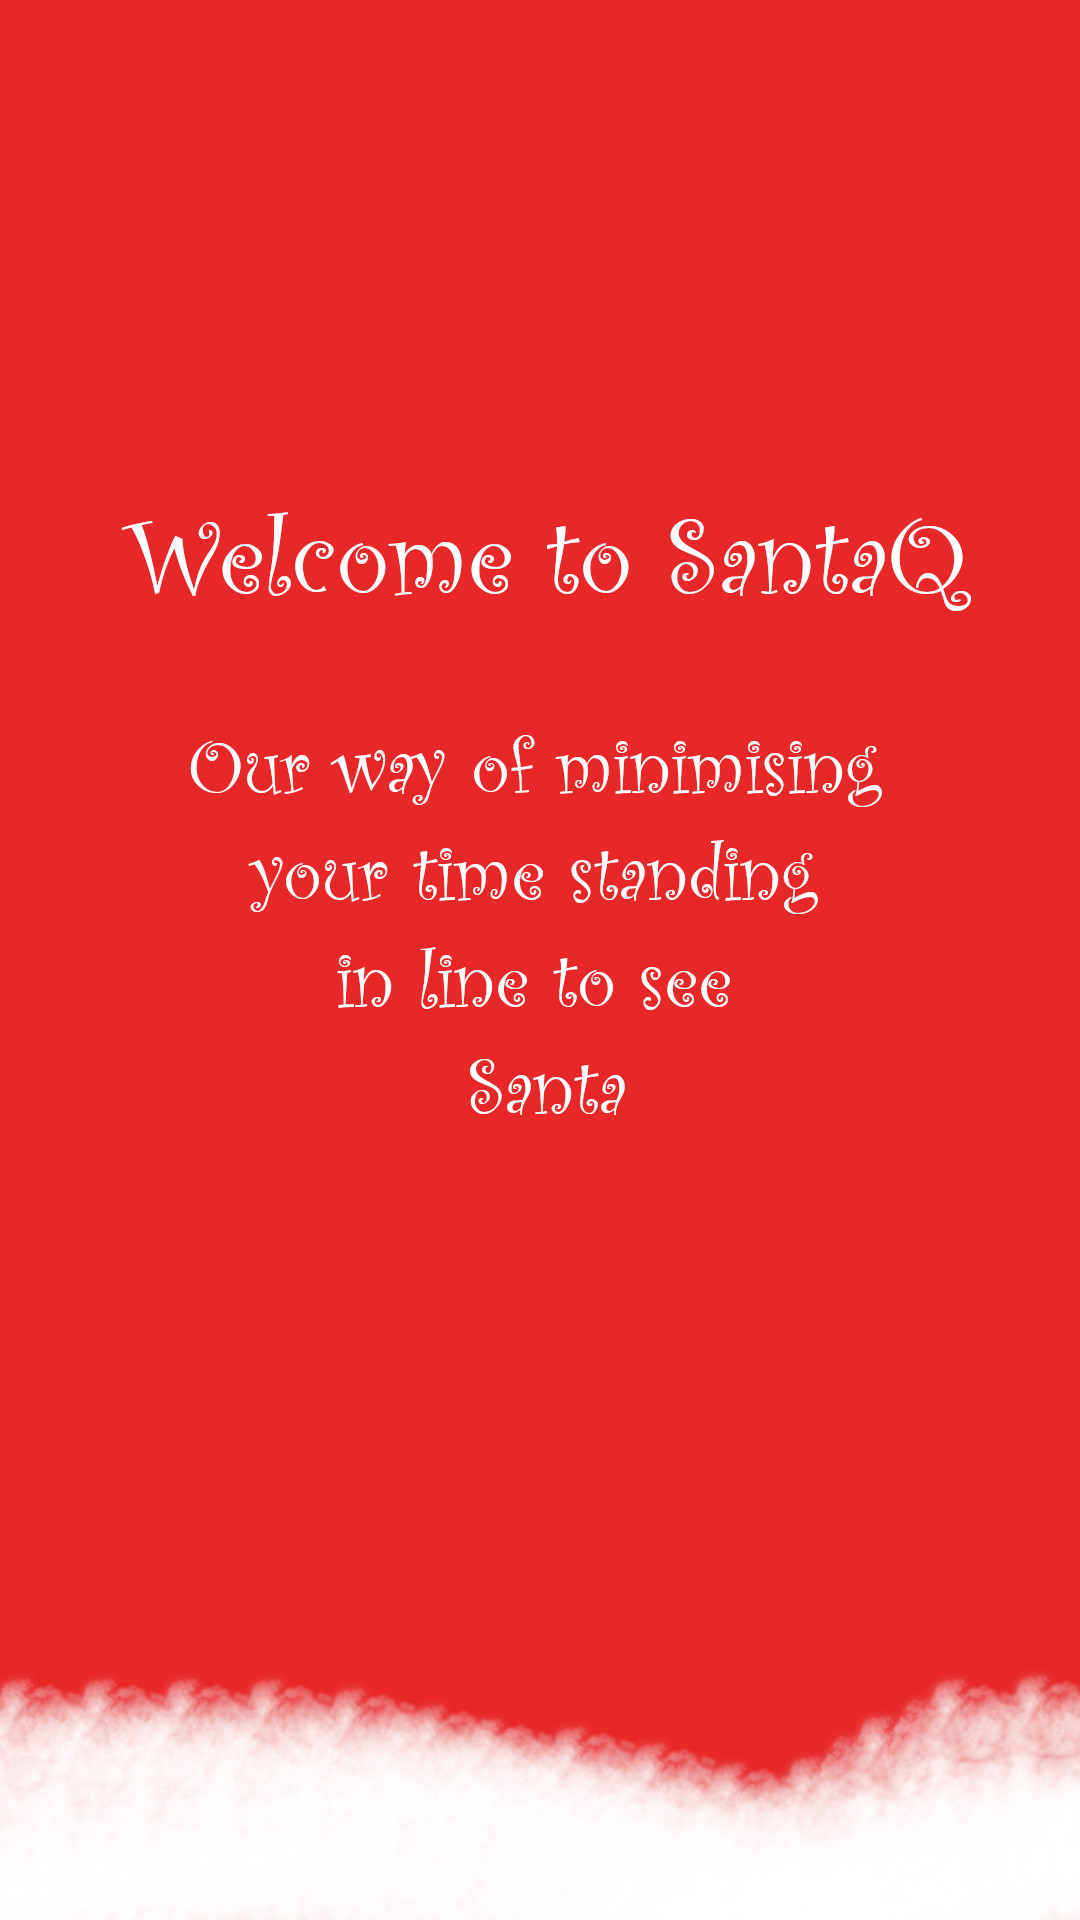
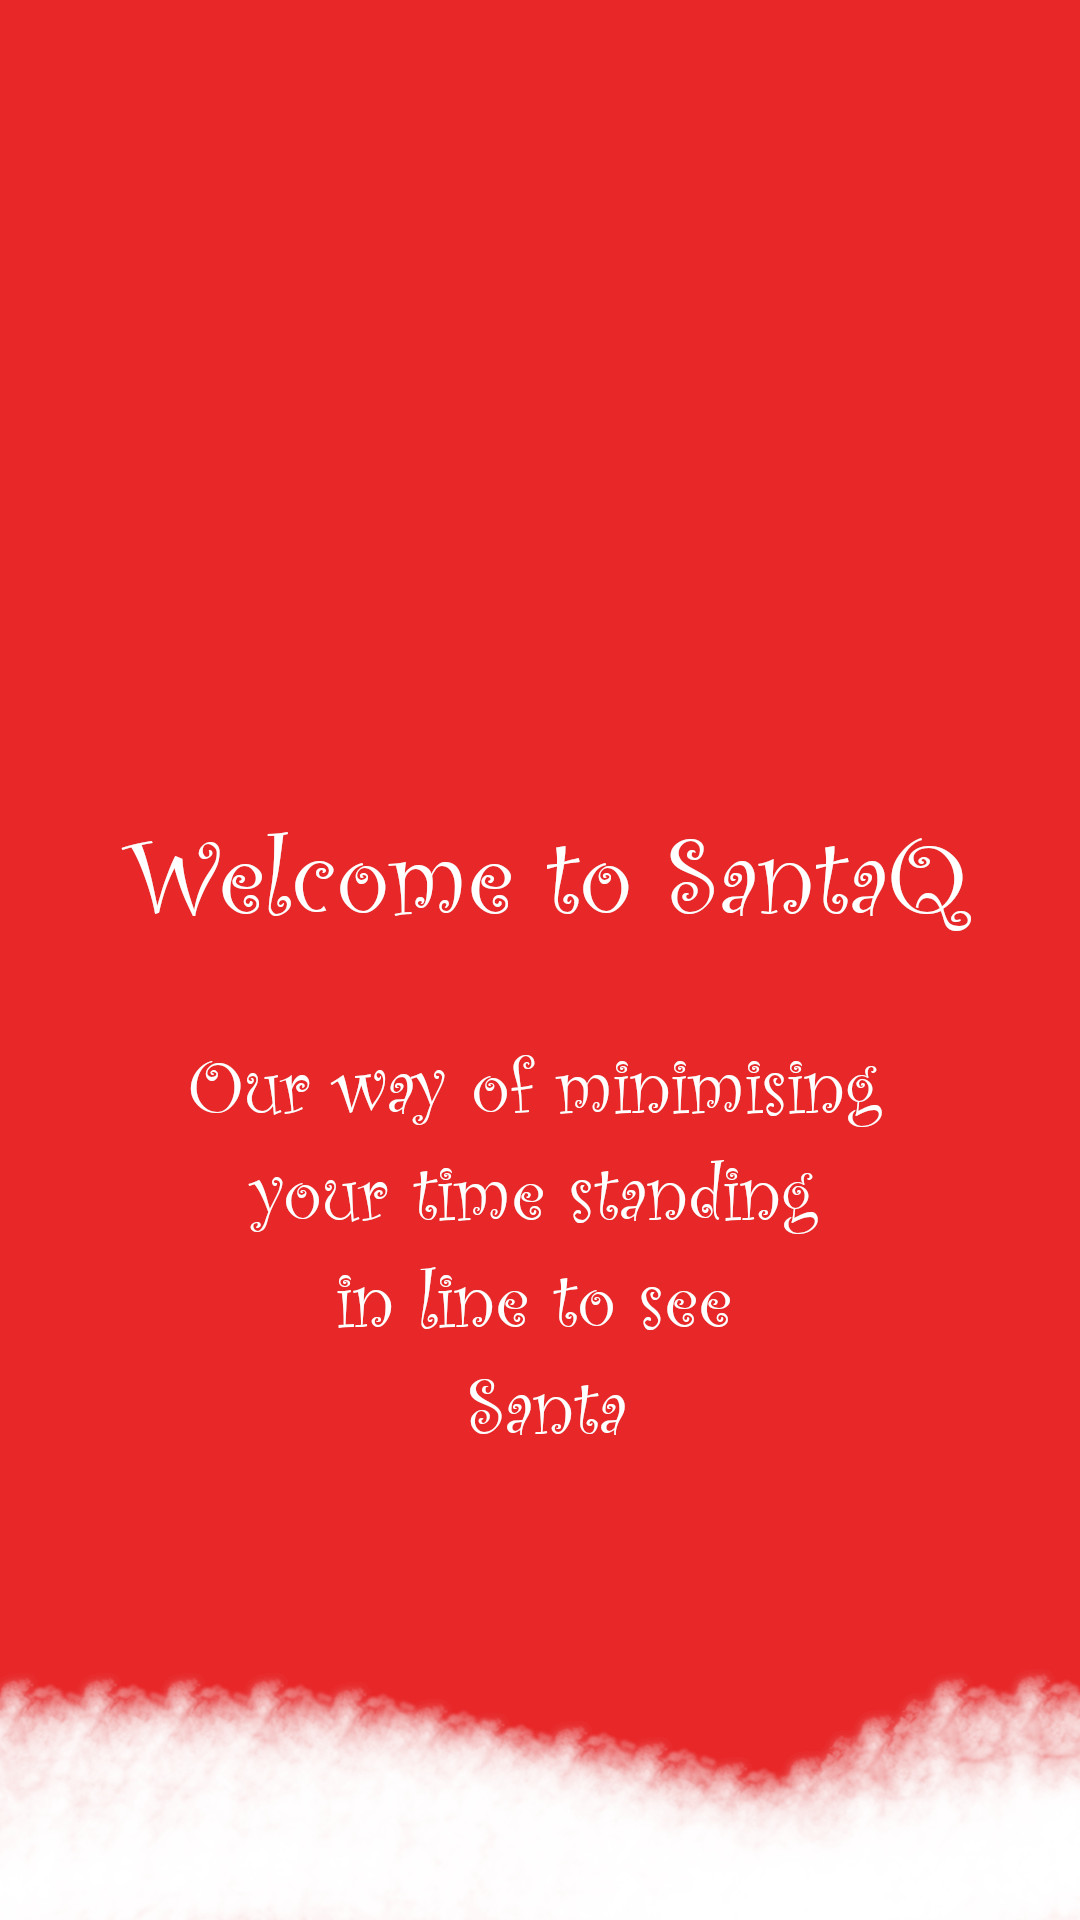
added button and adjusted  html

diff --git a/ilacKiosk.html b/ilacKiosk.html
@@ -32,7 +32,7 @@
         --button-font-color: #fff;
         --button-font-color-santa: rgba(255, 255, 255, 0) !important;
         --button-border-color: rgb(187, 31, 34);
-        --background-image: url("https://raw.githubusercontent.com/JCHendrickMedia/Call-Q-demo/master/ilacImg/kioskPageLandscape.jpg");
+        --background-image: url("https://raw.githubusercontent.com/JCHendrickMedia/Call-Q-demo/master/ilacImg/ButtonImage.jpg");
         --button-image-font-size: 10rem;
         --button-image-font-color: #ffffff00;
         /* Media Query */
